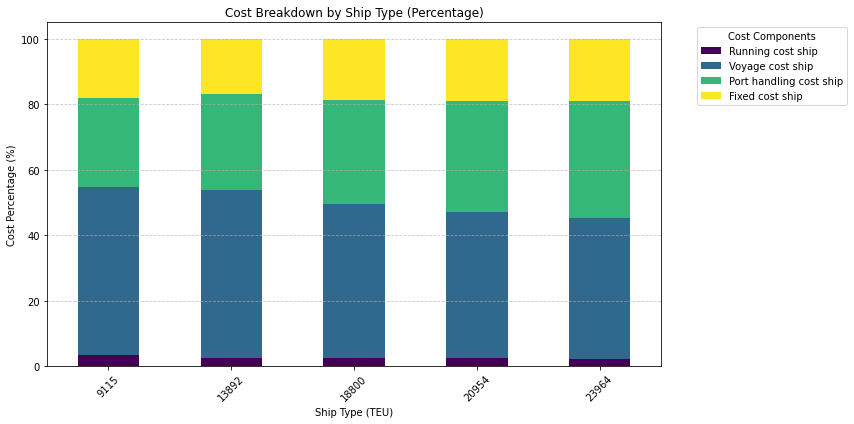
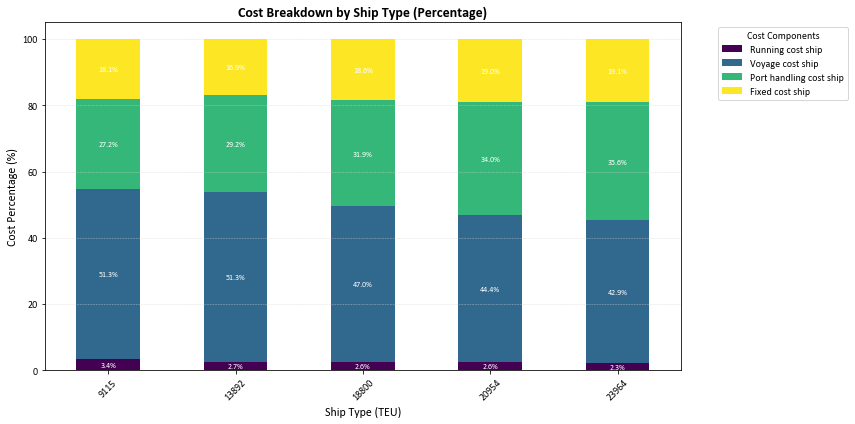
finished percentage bar plot

diff --git a/vessel_excel_reader.py b/vessel_excel_reader.py
@@ -171,7 +171,8 @@ print("\nAll plots have been saved in 'Vessels_DATA/Plots'.")
 
 def plot_cost_breakdown_percentage(json_data):
     """
-    Generates a stacked bar chart showing the percentage breakdown of costs for each ship model (TEU).
+    Generates a stacked bar chart showing the percentage breakdown of costs for each ship model (TEU)
+    and annotates each segment with its value.
     
     Args:
         json_data (dict): Dictionary containing cost data for different ship models.
@@ -185,16 +186,17 @@ def plot_cost_breakdown_percentage(json_data):
         total_cost = sum(data_dict["Total_ship_costs"].values())  # Sum of all cost components
         
         if total_cost > 0:  # Avoid division by zero
-            cost_percentages = {category: (data_dict["Total_ship_costs"].get(category, 0) / total_cost) * 100 for category in cost_categories}
+            cost_percentages = {category: (data_dict["Total_ship_costs"].get(category, 0) / total_cost) * 100 
+                                for category in cost_categories}
             cost_percentages["TEU"] = teu
             data.append(cost_percentages)
 
-    # Convert to DataFrame
+    # Convert to DataFrame and sort
     df = pd.DataFrame(data).sort_values(by="TEU")
 
     # Plot stacked bar chart
     plt.figure(figsize=(10, 6))
-    df.set_index("TEU").plot(kind="bar", stacked=True, colormap="viridis", figsize=(12, 6))
+    ax = df.set_index("TEU").plot(kind="bar", stacked=True, colormap="viridis", figsize=(12, 6))
 
     plt.xlabel("Ship Type (TEU)")
     plt.ylabel("Cost Percentage (%)")
@@ -203,11 +205,24 @@ def plot_cost_breakdown_percentage(json_data):
     plt.xticks(rotation=45)
     plt.grid(axis="y", linestyle="--", alpha=0.7)
     
+    # Annotate each segment in the stacked bars
+    for container in ax.containers:
+        # Loop over each bar in the container
+        for bar in container:
+            height = bar.get_height()
+            # Only add label if the height is significant
+            if height > 0:
+                # Get center of the bar segment: 
+                x = bar.get_x() + bar.get_width() / 2
+                y = bar.get_y() + height / 2
+                ax.text(x, y, f'{height:.1f}%', ha='center', va='center', fontsize=8, color='white')
+    
     plt.tight_layout()
     plt.show()
 
 # Call function with loaded JSON data
 plot_cost_breakdown_percentage(all_models_data)
+
 
 
 
